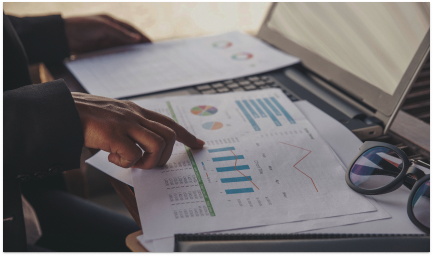
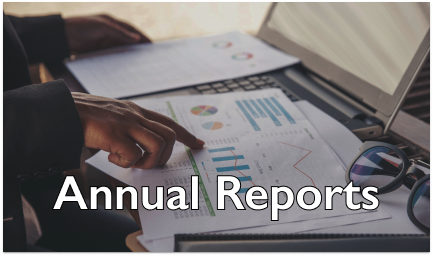
Update Publications

Changed region(s): [[0.1201, 0.6562, 0.9007, 0.875]]

diff --git a/annual.html b/annual.html
@@ -581,7 +581,7 @@
 
             <br><br><br>
             <div align="center">
-              <button type="submit" style="background-color: #1B2546; color: white;">Read The Report</button>
+              <button class="btn sign-in-btn d-none d-lg-flex" type="submit" style="background-color: #1B2546; color: white; width: 200px;">&nbsp;&nbsp;&nbsp;&nbsp;&nbsp;Read The Report</button>
             </div>
 
             
@@ -593,54 +593,163 @@
       </div>
     </section><!-- End Why Choose Us Section -->
 
+    <style type="text/css">
+      #example2 {
+  border: 1px solid;
+  padding: 10px;
+  box-shadow: 5px 10px #888888;
+}
+    </style>
+
     <!-- ======= Team Section ======= -->
     <section id="strategic" class="team" style="background-color: white;">
       <div class="container" data-aos="fade-up">
 
-        <div class="section-header">
-          <h2>The ECSA Strategic Plans</h2>
-
-        </div>
-
         <div class="row gy-4">
 
-          <div class="col-lg-3 col-md-6" data-aos="fade-up" data-aos-delay="100" style="background-color: #F7F7F7">
+          <div class="col-lg-3 col-md-6" data-aos="fade-up" data-aos-delay="100" style="background-color: #F7F7F7; height: 90px; box-shadow: 5px 10px #888888; width: 300px;">
             <div class="team-member" style="background-color: #F7F7F7">
               <div class="member-info" style="background-color: #F7F7F7">
                 <h4><a href="https://www.ecsa.co.za/about/pdfs/ECSA_Strategic_Plan_2010_to_2013.pdf"
-                  target="_blank"> ECSA Strategic Plan: 2010-2013</a></h4>
+                  target="_blank"><b>Annual Report</b></h4><h5>2020-2021</a></h5>
               </div>
             </div>
-          </div><!-- End Team Member -->
+          </div><!-- End Team Member -->&nbsp;
+&nbsp;
 
-          <div class="col-lg-3 col-md-6" data-aos="fade-up" data-aos-delay="200">
-            <div class="team-member">
-              <div class="member-info">
-                <h4><a href="https://www.ecsa.co.za/about/pdfs/ECSA_Strat_Business_Plan_2014_to_2018.pdf" target="_blank">ECSA Strategic and Business Plan: 2014-2018</a></h4>
-              </div>
-            </div>
-          </div><!-- End Team Member -->
 
-          <div class="col-lg-3 col-md-6" data-aos="fade-up" data-aos-delay="300">
-            <div class="team-member">
-              <div class="member-info">
-                <h4><a href="https://www.ecsa.co.za/about/pdfs/ECSA_Strat_Business_Plan_2015_to_2020.pdf" target="_blank"> ECSA Strategic and Business Plan: 2015-2020</a></h4>
-              </div>
-            </div>
-          </div><!-- End Team Member -->
 
-          <div class="col-lg-3 col-md-6" data-aos="fade-up" data-aos-delay="400">
-            <div class="team-member">
-              <div class="member-info">
-                <h4><a href="#"> ECSA Strategic Plan: 2020-2025</a></h4>
+          <div class="col-lg-3 col-md-6" data-aos="fade-up" data-aos-delay="200" style="background-color: #F7F7F7; height: 90px; box-shadow: 5px 10px #888888; width: 300px;">
+            <div class="team-member" style="background-color: #F7F7F7">
+              <div class="member-info" style="background-color: #F7F7F7">
+                <h4><a href="https://www.ecsa.co.za/news/Annual%20Reports/ECSA%20Annual%20Report%202019%202020.pdf" target="_blank">Annual Report</h4><h5>2019-2020</h5></a>
               </div>
             </div>
-          </div><!-- End Team Member -->
+          </div><!-- End Team Member -->&nbsp;&nbsp;
+
+          <div class="col-lg-3 col-md-6" data-aos="fade-up" data-aos-delay="300" style="background-color: #F7F7F7; height: 90px; box-shadow: 5px 10px #888888; width: 300px;">
+            <div class="team-member" style="background-color: #F7F7F7">
+              <div class="member-info" style="background-color: #F7F7F7">
+                <h4><a href="https://www.ecsa.co.za/news/Annual%20Reports/2018-19%20ECSA%20Annual%20Report.pdf" target="_blank">Annual Report</h4><h5>2018-2019</h5></a>
+              </div>
+            </div>
+          </div><!-- End Team Member -->&nbsp;&nbsp;
+
+          <div class="col-lg-3 col-md-6" data-aos="fade-up" data-aos-delay="400" style="background-color: #F7F7F7; height: 90px; box-shadow: 5px 10px #888888; width: 300px;">
+            <div class="team-member" style="background-color: #F7F7F7">
+              <div class="member-info" style="background-color: #F7F7F7">
+                <h4><a href="https://www.ecsa.co.za/news/Annual%20Reports/ECSA%20Annual%20Report%202017-2018.pdf" target="_blank">Annual Report</h4><h5>2017-2018</h5></a>
+              </div>
+            </div>
+          </div><!-- End Team Member --><br>
+
+          <div class="col-lg-3 col-md-6" data-aos="fade-up" data-aos-delay="100" style="background-color: #F7F7F7; height: 90px; box-shadow: 5px 10px #888888; width: 300px;">
+            <div class="team-member" style="background-color: #F7F7F7">
+              <div class="member-info" style="background-color: #F7F7F7">
+                <h4><a href="https://www.ecsa.co.za/news/Annual%20Reports/ECSA_Annual_Report_2016-2017%20Integrated.pdf"
+                  target="_blank"><b>Annual Report</b></h4><h5>2016-2017</a></h5>
+              </div>
+            </div>
+          </div><!-- End Team Member -->&nbsp;
+&nbsp;
+
+
+
+          <div class="col-lg-3 col-md-6" data-aos="fade-up" data-aos-delay="200" style="background-color: #F7F7F7; height: 90px; box-shadow: 5px 10px #888888; width: 300px;">
+            <div class="team-member" style="background-color: #F7F7F7">
+              <div class="member-info" style="background-color: #F7F7F7">
+                <h4><a href="https://www.ecsa.co.za/news/Annual%20Reports/Annual_Report_2015-2016.pdf" target="_blank">Annual Report</h4><h5>2015-2016</h5></a>
+              </div>
+            </div>
+          </div><!-- End Team Member -->&nbsp;&nbsp;
+
+          <div class="col-lg-3 col-md-6" data-aos="fade-up" data-aos-delay="300" style="background-color: #F7F7F7; height: 90px; box-shadow: 5px 10px #888888; width: 300px;">
+            <div class="team-member" style="background-color: #F7F7F7">
+              <div class="member-info" style="background-color: #F7F7F7">
+                <h4><a href="https://www.ecsa.co.za/about/pdfs/Ecsa_Annual_Report_2015.pdf" target="_blank">Annual Report</h4><h5>2014-2015</h5></a>
+              </div>
+            </div>
+          </div><!-- End Team Member -->&nbsp;&nbsp;
+
+          <div class="col-lg-3 col-md-6" data-aos="fade-up" data-aos-delay="400" style="background-color: #F7F7F7; height: 90px; box-shadow: 5px 10px #888888; width: 300px;">
+            <div class="team-member" style="background-color: #F7F7F7">
+              <div class="member-info" style="background-color: #F7F7F7">
+                <h4><a href="https://www.ecsa.co.za/about/pdfs/ECSA_Annual_Report_2013-2014.pdf" target="_blank">Annual Report</h4><h5>2013-2014</h5></a>
+              </div>
+            </div>
+          </div><!-- End Team Member --><br>
+
+          <div class="col-lg-3 col-md-6" data-aos="fade-up" data-aos-delay="400" style="background-color: #F7F7F7; height: 90px; box-shadow: 5px 10px #888888; width: 300px;">
+            <div class="team-member" style="background-color: #F7F7F7">
+              <div class="member-info" style="background-color: #F7F7F7">
+                <h4><a href="https://www.ecsa.co.za/about/pdfs/ECSA_Annual_Report_2012-13.pdf" target="_blank">Annual Report</h4><h5>2012-2013</h5></a>
+              </div>
+            </div>
+          </div><!-- End Team Member -->&nbsp;&nbsp;
+
+          <div class="col-lg-3 col-md-6" data-aos="fade-up" data-aos-delay="400" style="background-color: #F7F7F7; height: 90px; box-shadow: 5px 10px #888888; width: 300px;">
+            <div class="team-member" style="background-color: #F7F7F7">
+              <div class="member-info" style="background-color: #F7F7F7">
+                <h4><a href="https://www.ecsa.co.za/news/Annual%20Reports/ECSA_Annual_Report_2011-12.pdf" target="_blank">Annual Report</h4><h5>2011-2012</h5></a>
+              </div>
+            </div>
+          </div><!-- End Team Member -->&nbsp;&nbsp;
+
+          <div class="col-lg-3 col-md-6" data-aos="fade-up" data-aos-delay="400" style="background-color: #F7F7F7; height: 90px; box-shadow: 5px 10px #888888; width: 300px;">
+            <div class="team-member" style="background-color: #F7F7F7">
+              <div class="member-info" style="background-color: #F7F7F7">
+                <h4><a href="https://www.ecsa.co.za/news/Annual%20Reports/ECSA_Annual_Report_2010-11.pdf" target="_blank">Annual Report</h4><h5>2010-2011</h5></a>
+              </div>
+            </div>
+          </div><!-- End Team Member -->&nbsp;&nbsp;
+
+          <div class="col-lg-3 col-md-6" data-aos="fade-up" data-aos-delay="400" style="background-color: #F7F7F7; height: 90px; box-shadow: 5px 10px #888888; width: 300px;">
+            <div class="team-member" style="background-color: #F7F7F7">
+              <div class="member-info" style="background-color: #F7F7F7">
+                <h4><a href="https://www.ecsa.co.za/news/Annual%20Reports/Annual_Report_2009_2010.pdf" target="_blank">Annual Report</h4><h5>2009-2010</h5></a>
+              </div>
+            </div>
+          </div><!-- End Team Member --><br>
+
+          <div class="col-lg-3 col-md-6" data-aos="fade-up" data-aos-delay="400" style="background-color: #F7F7F7; height: 90px; box-shadow: 5px 10px #888888; width: 300px;">
+            <div class="team-member" style="background-color: #F7F7F7">
+              <div class="member-info" style="background-color: #F7F7F7">
+                <h4><a href="https://www.ecsa.co.za/news/Annual%20Reports/Annual_Report_2008_2009.pdf" target="_blank">Annual Report</h4><h5>2008-2009</h5></a>
+              </div>
+            </div>
+          </div><!-- End Team Member -->&nbsp;&nbsp;
+
+          <div class="col-lg-3 col-md-6" data-aos="fade-up" data-aos-delay="400" style="background-color: #F7F7F7; height: 90px; box-shadow: 5px 10px #888888; width: 300px;">
+            <div class="team-member" style="background-color: #F7F7F7">
+              <div class="member-info" style="background-color: #F7F7F7">
+                <h4><a href="#" target="_blank">Annual Report</h4><h5>2007-2008</h5></a>
+              </div>
+            </div>
+          </div><!-- End Team Member -->&nbsp;&nbsp;
+          
+          <div class="col-lg-3 col-md-6" data-aos="fade-up" data-aos-delay="400" style="background-color: #F7F7F7; height: 90px; box-shadow: 5px 10px #888888; width: 300px;">
+            <div class="team-member" style="background-color: #F7F7F7">
+              <div class="member-info" style="background-color: #F7F7F7">
+                <h4><a href="https://www.ecsa.co.za/news/Annual%20Reports/080306_2006_2007_Annual_Report.pdf" target="_blank">Annual Report</h4><h5>2006-2007</h5></a>
+              </div>
+            </div>
+          </div><!-- End Team Member -->&nbsp;&nbsp;
+
+          <div class="col-lg-3 col-md-6" data-aos="fade-up" data-aos-delay="400" style="background-color: #F7F7F7; height: 90px; box-shadow: 5px 10px #888888; width: 300px;">
+            <div class="team-member" style="background-color: #F7F7F7">
+              <div class="member-info" style="background-color: #F7F7F7">
+                <h4><a href="https://www.ecsa.co.za/news/Annual%20Reports/1ECSA_AnnualReport.pdf" target="_blank">Annual Report</h4><h5>2005-2006</h5></a>
+              </div>
+            </div>
+          </div><!-- End Team Member -->&nbsp;&nbsp;
+
 
         </div>
 
       </div>
     </section><!-- End Team Section -->
+
+
 
   </main><!-- End #main -->
 

diff --git a/Publications.html b/Publications.html
@@ -446,9 +446,7 @@
     
     <section id="pressReleases" style="height: 20px">
     <div class="col-lg-8">
-            <div class="section-header">
-              <h3 style="text-align: left;"><b>Publications</b></h3>
-            </div>
+            
           </div>
 
 
@@ -486,21 +484,22 @@
       <div class="container" data-aos="fade-up">
 
         <div class="row gy-5">
+          &nbsp;&nbsp;&nbsp;&nbsp;
 
-          <div class="col-xl-3 col-md-6" data-aos="fade-up" data-aos-delay="100" style="width: 400px">
+          <div class="col-xl-3 col-md-6" data-aos="fade-up" data-aos-delay="100" style="width: 434px">
             <div class="post-box">
-              <a href=""><div class="post-img"><img src="assets/img/Website/Rectangle 3841.png" class="img-fluid" alt="Text" title="Annual Reports"><span style="position: absolute; top: 80%; left: 50%; transform: translate(-50%, -50%);color: #fff; font-size: 19px;"><b>Annual Reports</b></span></div></a>
+              <a href="annual.html"><div class="post-img"><img src="assets/img/Website/Rectangle 3841.png" class="img-fluid" alt="Text" title="Annual Reports"></div></a>
               
             </div>
           </div>
 
-          <div class="col-xl-3 col-md-6" data-aos="fade-up" data-aos-delay="200"  style="width: 400px">
+          <div class="col-xl-3 col-md-6" data-aos="fade-up" data-aos-delay="200"  style="width: 434px">
             <div class="post-box">
               <a href=""><div class="post-img"><img src="assets/img/Website/Group 1000001780.png" class="img-fluid" alt=""></div></a>
             </div>
           </div>
 
-          <div class="col-xl-3 col-md-6" data-aos="fade-up" data-aos-delay="300"  style="width: 400px">
+          <div class="col-xl-3 col-md-6" data-aos="fade-up" data-aos-delay="300"  style="width: 434px">
             <div class="post-box">
               <a href=""><div class="post-img"><img src="assets/img/Website/Group 1000001781.png" class="img-fluid" alt=""></div></a>
             </div>
@@ -609,7 +608,7 @@
 
             <br><br><br>
             <div align="center">
-              <button type="submit" style="background-color: #1B2546; color: white;">Learn More</button>
+              <button class="btn sign-in-btn d-none d-lg-flex" type="submit" style="background-color: #1B2546; color: white; width: 200px">&nbsp;&nbsp;&nbsp;&nbsp;&nbsp;&nbsp;&nbsp;&nbsp;&nbsp;Learn More</button>
             </div>
 
             
@@ -628,22 +627,22 @@
 
         <div class="row gy-5">
 
-          <div class="col-xl-3 col-md-6" data-aos="fade-up" data-aos-delay="100" style="width: 400px">
+          <div class="col-xl-3 col-md-6" data-aos="fade-up" data-aos-delay="100" style="width: 434px">
             <div class="post-box">
               <a href=""><div class="post-img"><img src="assets/img/Website/Group 1000001782.png" class="img-fluid" alt="Text"></div></a>
               
             </div>
           </div>
 
-          <div class="col-xl-3 col-md-6" data-aos="fade-up" data-aos-delay="200"  style="width: 400px">
+          <div class="col-xl-3 col-md-6" data-aos="fade-up" data-aos-delay="200"  style="width: 434px">
             <div class="post-box">
               <a href=""><div class="post-img"><img src="assets/img/Website/Group 1000001783.png" class="img-fluid" alt=""></div></a>
             </div>
           </div>
 
-          <div class="col-xl-3 col-md-6" data-aos="fade-up" data-aos-delay="300"  style="width: 400px">
+          <div class="col-xl-3 col-md-6" data-aos="fade-up" data-aos-delay="300"  style="width: 434px">
             <div class="post-box">
-              <a href=""><div class="post-img"><img src="assets/img/Website/Group 1000001784.png" class="img-fluid" alt=""></div></a>
+              <a href="https://www.ecsa.co.za/Audit%20and%20Risk/QM_POL_001_%20Quality%20Policy.pdf" target="_blank"><div class="post-img"><img src="assets/img/Website/Group 1000001784.png" class="img-fluid" alt=""></div></a>
             </div>
           </div>
 
